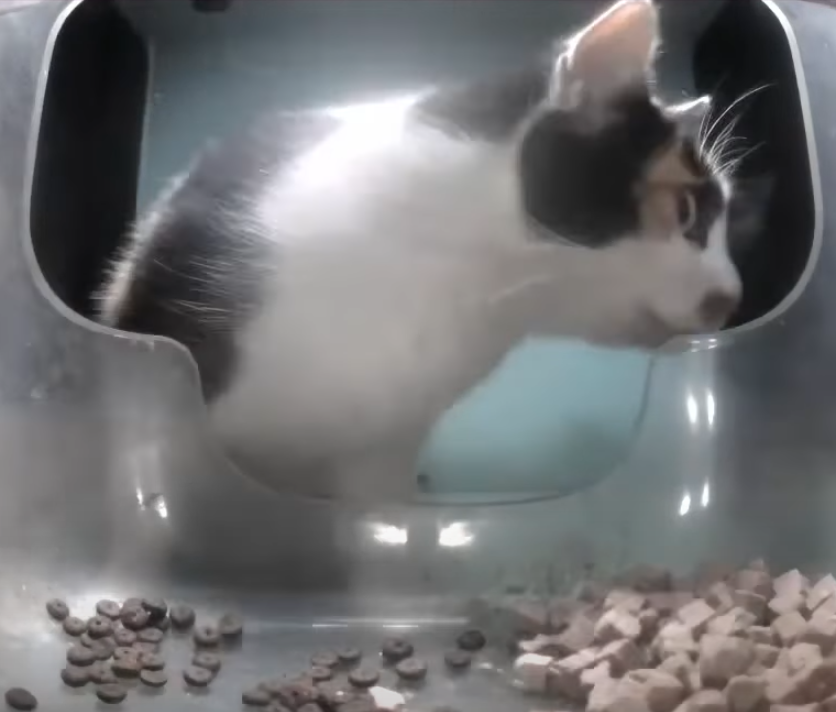
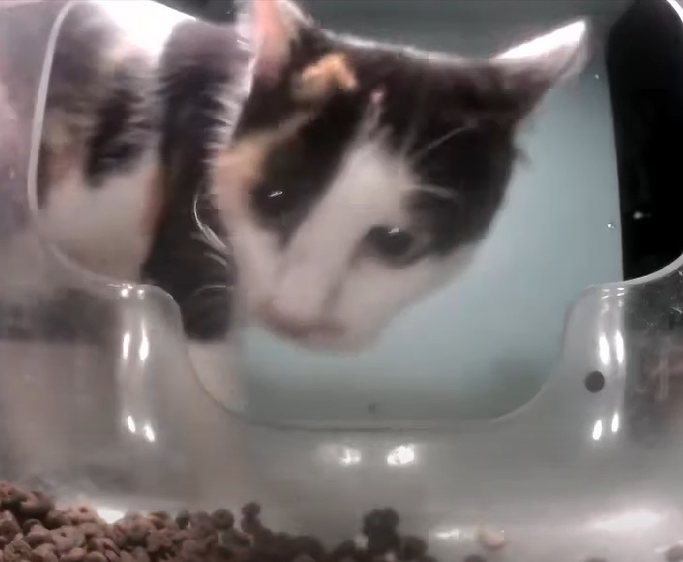
dip

diff --git a/_posts/2024-11-28-ms_dip.md b/_posts/2024-11-28-ms_dip.md
@@ -1,0 +1,29 @@
+---
+layout: post 
+title: Ms. Dip
+tags: [Lucky 7-11 II]
+thumbnail-img: https://streetcatlove.github.io/hellostreetcat/assets/img/ms_dip.png
+comments: false
+---
+
+![Ms. Dip](https://streetcatlove.github.io/hellostreetcat/assets/img/ms_dip.png){: .mx-auto.d-block :}
+
+* Ms. Dip is a mostly white calico with minor orange and grey tabby markings on top of her head
+* Ms. Dip visits the Lucky 7-11 II feeder
+* Both of Ms. Dip's ear tips are orange
+* Some believe Ms. Dip to be the cutest cat on Hello Street
+
+<details>
+<summary>Appearances</summary>
+<ul>
+	<li><a href="https://youtu.be/-RlVcGxepfU?si=vpuc9QyTWQo45Hry&t=1187">8/15/24 02:20</a></li>
+	<li><a href="https://youtu.be/fzMttqN54sw?si=VMOCb555YPgNlewO&t=104">8/20/24 02:04</a></li>
+	<li><a href="https://youtu.be/9rRB3M-3AtA?si=ohHlg-rgT3KwGlrj&t=2119">9/7/24 00:32</a></li>
+	<li><a href="https://youtu.be/h5s_4ZCaPvs?si=C-GiCQ_l8rCrBB14&t=16274">9/18/24 04:27</a></li>
+	<li><a href="https://youtu.be/9QqoAxxos9k?si=bzUq9KvbUVkAsN9o&t=2479">9/21/24 00:40</a></li>
+	<li><a href="https://youtu.be/vM0mRn36gJY?si=IyV4rHCocgimQ4jH&t=14467">10/26/24 15:58</a></li>
+	<li><a href="https://youtu.be/r9K3sJGjP7k?si=Hs92qS9ULRGqSvE5&t=9926">11/20/24 15:43</a></li>
+</ul>
+</details>
+
+![Ms. Dip](https://streetcatlove.github.io/hellostreetcat/assets/img/ms_dip0.png){: .mx-auto.d-block :}

diff --git a/_posts/2024-11-28-mrs_snack.md b/_posts/2024-11-28-mrs_snack.md
@@ -1,0 +1,25 @@
+---
+layout: post 
+title: Mrs. Snack
+tags: [Lucky 7-11 II]
+thumbnail-img: https://streetcatlove.github.io/hellostreetcat/assets/img/mrs_snack.png
+comments: false
+---
+
+![Mr. Snack](https://streetcatlove.github.io/hellostreetcat/assets/img/mrs_snack.png){: .mx-auto.d-block :}
+
+* Mrs. Snack is a calico with white underside and neck, major black markings, and smaller orange markings
+* Mrs. Snack visits the Lucky 7-11 II feeder
+* Mrs. Snack was believed to have a relationship with [Mr. Snack](/hellostreetcat/posts/mr_snack) before he was adopted
+* Mrs. Snack is believed to be the mother of the Snack Childern: Inspector and Lil Fella 
+
+<details>
+<summary>Appearances</summary>
+<ul>
+	<li><a href="https://youtu.be/iSuVDN4P7Ws?si=MiI67i5FuC-3p4bR&t=6347">8/31/24 02:25</a></li>
+	<li><a href="https://www.youtube.com/watch?v=mC2nxl_mYFc">11/2/24 23:50</a></li>
+	<li><a href="https://youtu.be/vtxekdYw61Q?si=L5F-3W5FseOAXKnj&t=3551">11/20/24 01:58</a></li>
+</ul>
+</details>
+
+![Mr. Snack](https://streetcatlove.github.io/hellostreetcat/assets/img/mrs_snack0.png){: .mx-auto.d-block :}
